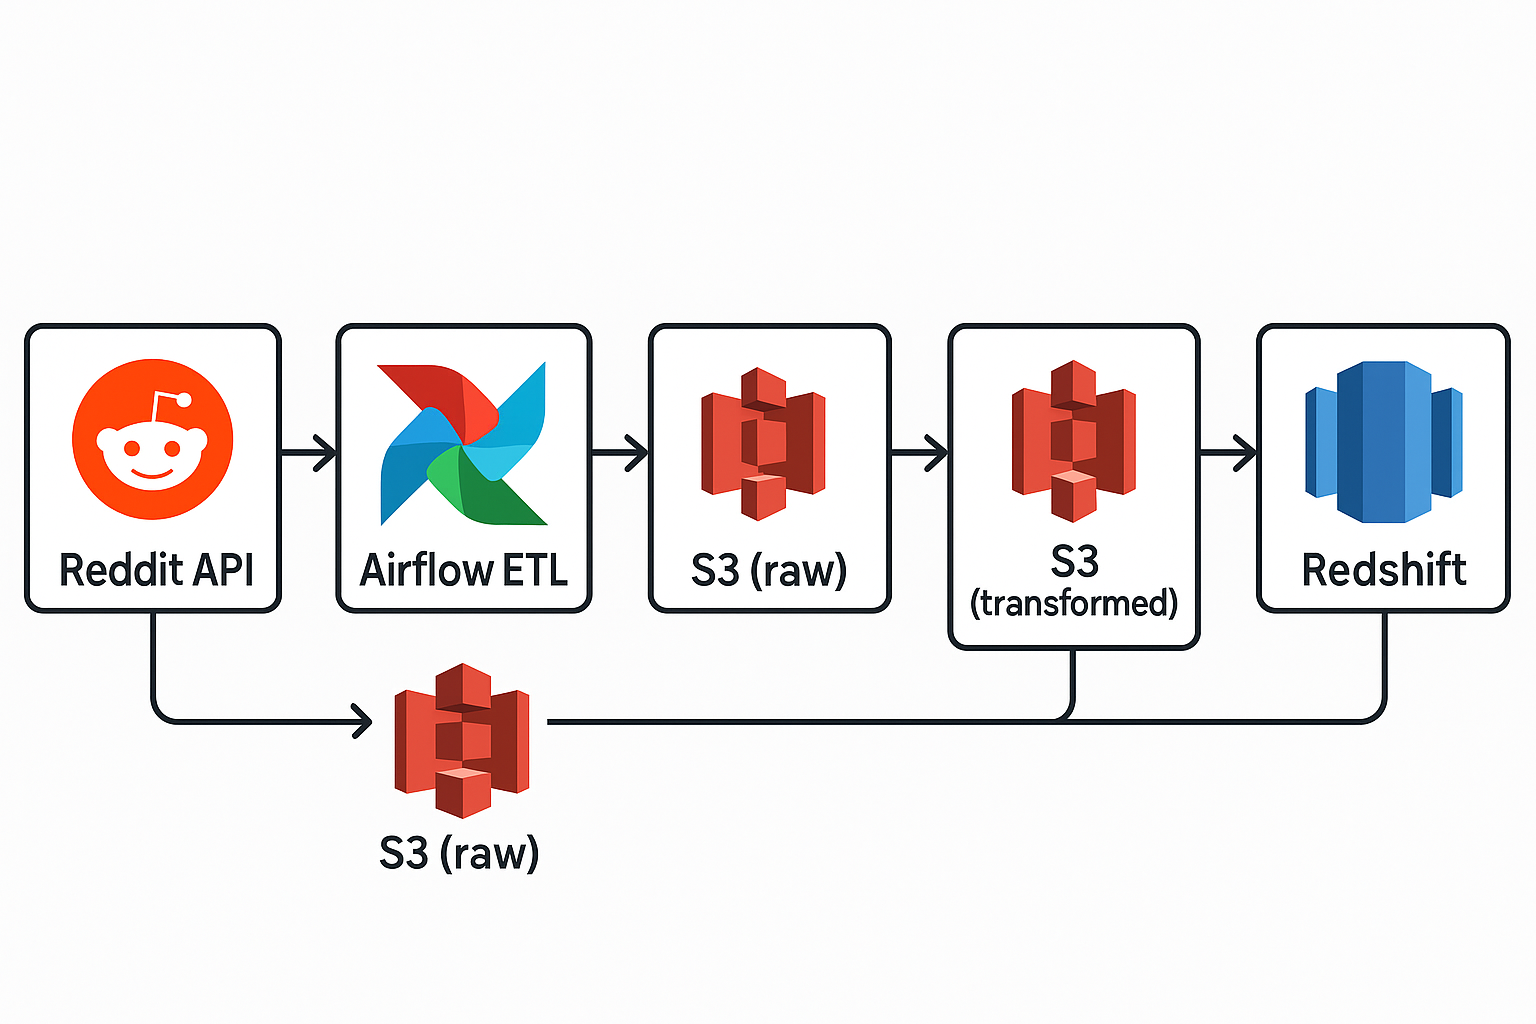
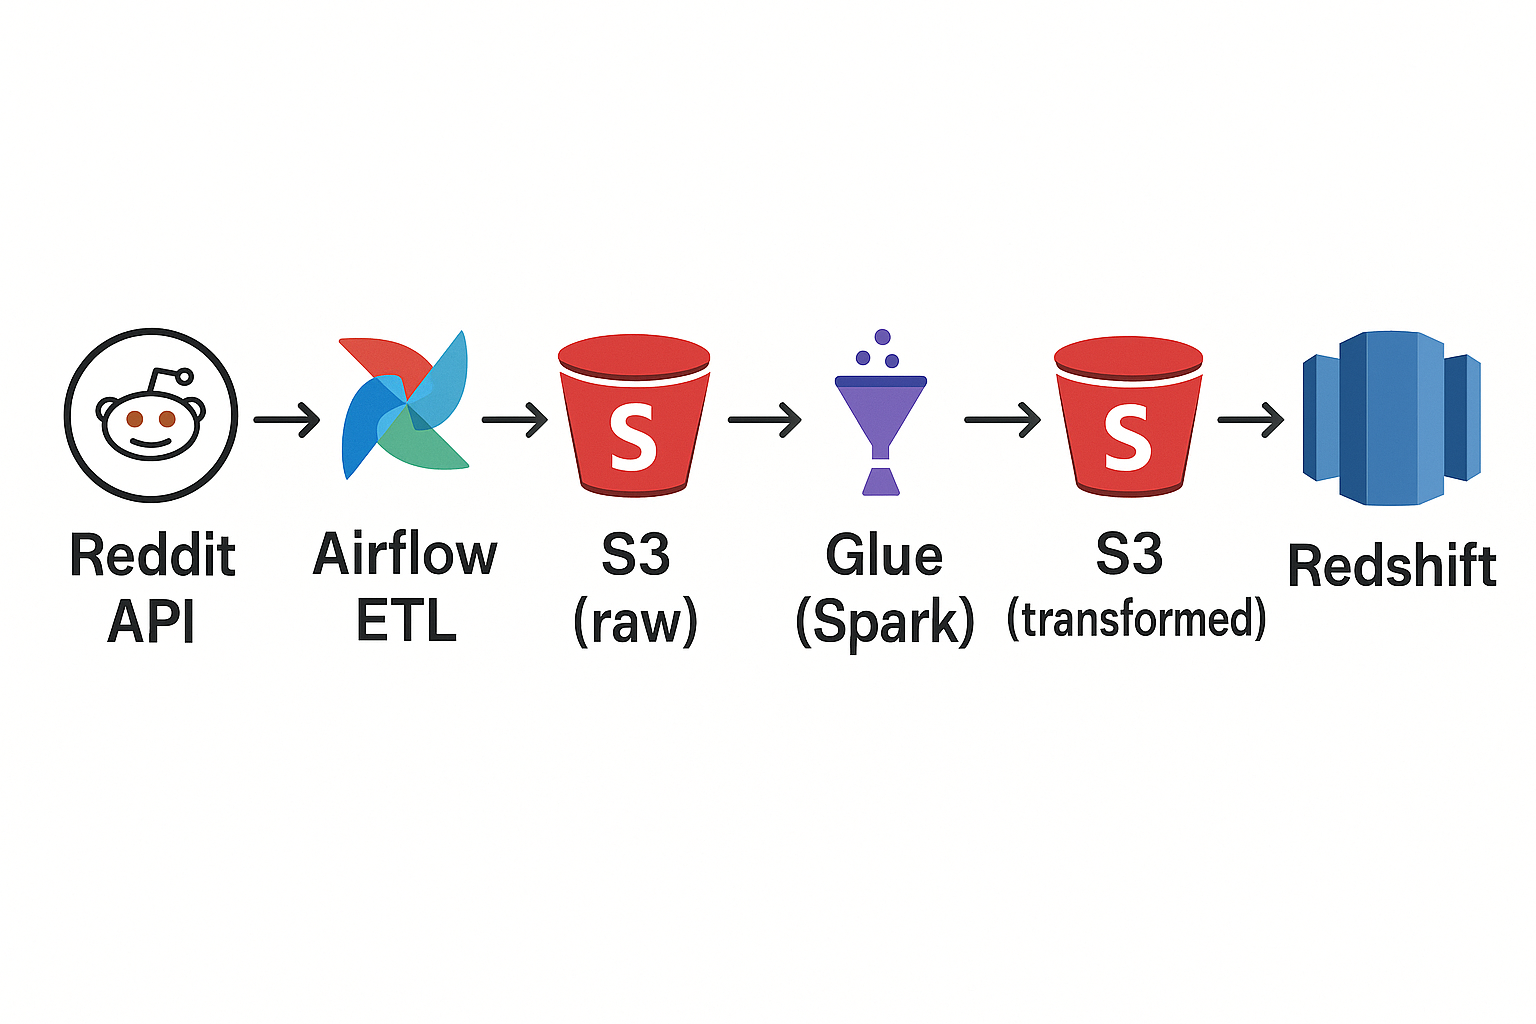
Finalized Reddit ETL pipeline

Changed region(s): [[0.0, 0.3125, 1.0, 0.8438]]

diff --git a/README.md b/README.md
@@ -1,2 +1,77 @@
-# Reddit_ETL
-data pipeline solution to extract, transform, and load (ETL) Reddit data into a Redshift data warehouse.
+# 🧠 Reddit ETL Pipeline: From Reddit API to Redshift via Airflow, S3, and Glue
+
+A complete data pipeline to **Extract**, **Transform**, and **Load** (ETL) Reddit data into an AWS Redshift data warehouse using modern cloud and orchestration tools.
+
+---
+
+## 🔍 Project Overview
+
+This pipeline illustrates the complete lifecycle of ingesting data from **Reddit subreddits** and preparing it for advanced analysis and visualization in a **cloud-based data warehouse**.
+
+---
+
+## ⚙ Stack & Technologies
+
+**Tools:** Docker, Airflow, AWS S3, AWS Glue, AWS Redshift
+**Libraries/Tech:** `praw`, `pandas`, `numpy`, `s3fs`, `pytest`, `unittest`, `logging`
+
+---
+
+## 🛠 Pipeline Steps
+
+![ETL Diagram](etl_diagram.png)
+
+1. **Scrape** data from Reddit using the `praw` API.
+2. **Transform** the data with `pandas`.
+3. **Push** the raw data to AWS S3 using `s3fs`.
+4. **Automate** steps 1–3 using **Airflow DAGs**.
+5. **Run Spark-based ETL jobs** using **AWS Glue**.
+6. **Apply additional transformations** and move cleaned data to another S3 bucket.
+7. **Load the final dataset** into **Amazon Redshift**, making it ready for BI tools like **Power BI** or **Tableau**.
+
+---
+
+## 🚀 Quick Start
+
+1. **Clone the repository:**
+
+   ```bash
+   git clone https://github.com/NotAbdelrahmanelsayed/Reddit_ETL.git
+   cd Reddit_ETL
+   ```
+
+2. **Create the configuration file:**
+
+   ```bash
+   touch config/config.conf
+   ```
+
+3. **Set up your credentials:**
+
+   * Get Reddit API keys from [reddit.com/prefs/apps](https://www.reddit.com/prefs/apps)
+   * Get AWS credentials as described in [this AWS CLI guide](https://docs.aws.amazon.com/cli/v1/userguide/cli-configure-files.html)
+
+4. **Fill in `config/config.conf`**
+   Use `config_example.conf` as a reference template.
+
+5. **Start Airflow and services:**
+
+   ```bash
+   docker compose up -d
+   ```
+
+6. **Access the Airflow UI**
+   Open your browser and go to: [http://localhost:8080](http://localhost:8080)
+
+7. **Trigger the DAG** to run the full ETL process.
+
+---
+
+## 📘 What I Learned
+
+* Spent **15+ hours debugging Airflow**, which taught me more than most tutorials.
+* Deep-dived into **AWS documentation**, improving my understanding of real-world AWS usage.
+* Explored **various AWS settings**, which opened my eyes to configuration flexibility for different use cases.
+* Learned the **basics of Apache Spark** while scripting AWS Glue jobs.
+* Practiced **creative testing** using mocking and patching to isolate components cleanly.
+* Enhanced my skills in **Docker and Docker Compose** while managing the couple container setup.
